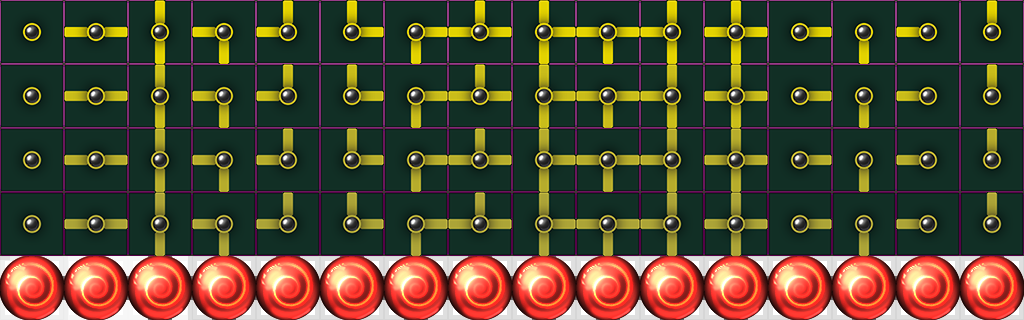
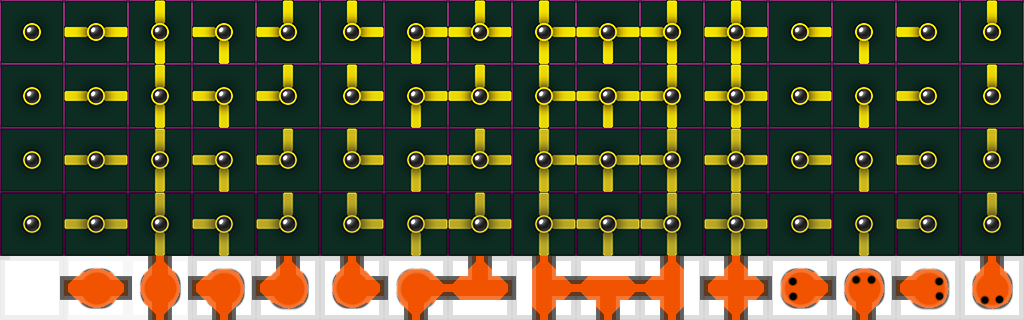
modified color scheme for base tiles. made some anims slower. modified particle generators

diff --git a/src/game.cpp b/src/game.cpp
@@ -414,7 +414,7 @@ void CGame::Update_PLAY(int framex)
                     {
                         bonus += right_multiplier[j];
                         right_multiplier[j]++;
-                        for (k = 0; k < 5 * right_multiplier[j]; k++)
+                        for (k = 0; k < 3 * right_multiplier[j]; k++)
                             lightning->AddSparkle_SetXYCS(grid_positions[GRID_W - 1][j].x + 64, grid_positions[GRID_W - 1][j].y + 32,
                             (rand() % 3840) - 2560, (rand() % 3840) - 2560,
                             (rand() % 12),
@@ -459,7 +459,7 @@ void CGame::Update_PLAY(int framex)
         {
             if (game_table->grid_anim_type[i][j] == ANIM_DESTROY)
             {
-                for (k = 0; k < 2; k++)
+                for (k = 0; k < 3; k++)
                     lightning->AddSparkle_SetXYCS(grid_positions[i][j].x + 32, grid_positions[i][j].y + 32,
                     (rand() % 2560) - 1280, (rand() % 3840) - 2560,
                     ((rand() % 3) + 11) % 12,
@@ -738,8 +738,9 @@ void CGame::Render_PLAY(int framex)
                     tex_p,
                     dimension64);
 			}
-        game_table->update_color_shifts();
     }
+    if ((framex % 2) == 0)
+        game_table->update_color_shifts();
     Iw2DFinishDrawing();
     IwGxSetScissorScreenSpace(0, 0, Iw2DGetSurfaceWidth(), Iw2DGetSurfaceHeight());
     //Iw2DSetAlphaMode(IW_2D_ALPHA_NONE);
